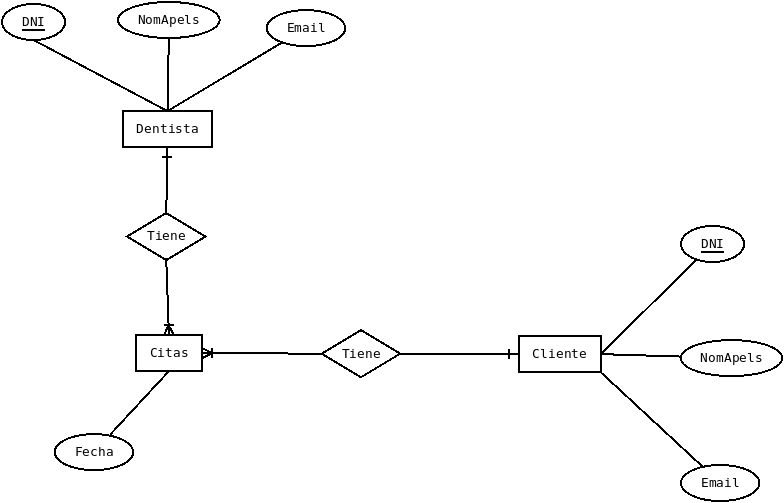
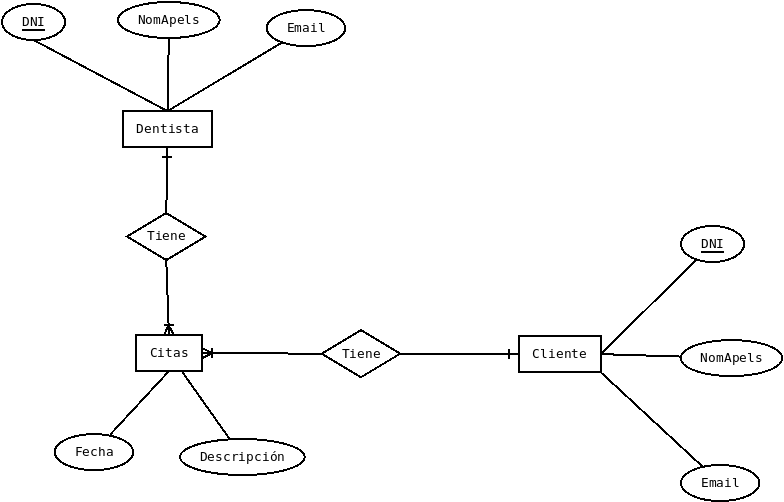
Added description in citas

diff --git a/EX02_api_medica/src/main/java/com/api/medica/dto/Citas.java b/EX02_api_medica/src/main/java/com/api/medica/dto/Citas.java
@@ -20,6 +20,9 @@ public class Citas {
 	@Column(name = "id")
 	private long id;
 	
+	@Column(name = "descripcion")
+	private String descripcion;
+	
 	@Column(name = "fecha")
 	private LocalDateTime fecha;
 	
@@ -36,13 +39,15 @@ public class Citas {
 
 	/**
 	 * @param id
+	 * @param descripcion
 	 * @param fecha
 	 * @param cliente
 	 * @param dentista
 	 */
-	public Citas(long id, LocalDateTime fecha, Clientes cliente, Dentistas dentista) {
+	public Citas(long id, String descripcion, LocalDateTime fecha, Clientes cliente, Dentistas dentista) {
 		super();
 		this.id = id;
+		this.descripcion = descripcion;
 		this.fecha = fecha;
 		this.cliente = cliente;
 		this.dentista = dentista;
@@ -103,10 +108,25 @@ public class Citas {
 	public void setDentista(Dentistas dentista) {
 		this.dentista = dentista;
 	}
+	
+	/**
+	 * @return the descripcion
+	 */
+	public String getDescripcion() {
+		return descripcion;
+	}
+
+	/**
+	 * @param descripcion the descripcion to set
+	 */
+	public void setDescripcion(String descripcion) {
+		this.descripcion = descripcion;
+	}
 
 	@Override
 	public String toString() {
-		return "Citas [id=" + id + ", fecha=" + fecha + ", cliente=" + cliente + ", dentista=" + dentista + "]";
+		return "Citas [id=" + id + ", descripcion=" + descripcion + ", fecha=" + fecha + ", cliente=" + cliente
+				+ ", dentista=" + dentista + "]";
 	}
 
 }

diff --git a/EX02_api_medica/src/main/java/com/api/medica/controller/CitasController.java b/EX02_api_medica/src/main/java/com/api/medica/controller/CitasController.java
@@ -56,18 +56,19 @@ public class CitasController {
 	@PutMapping("/citas/{id}")
 	public Citas actualizarCita(@PathVariable(name="id")long id,@RequestBody Citas cita) {
 		
-		Citas almacen_seleccionado= new Citas();
-		Citas almacen_actualizado= new Citas();
+		Citas cita_seleccionada= new Citas();
+		Citas cita_actualizada= new Citas();
 		
-		almacen_seleccionado= citasServiceImpl.citaXID(id);
+		cita_seleccionada= citasServiceImpl.citaXID(id);
 		
-		almacen_seleccionado.setFecha(cita.getFecha());
-		almacen_seleccionado.setCliente(cita.getCliente());
-		almacen_seleccionado.setDentista(cita.getDentista());
+		cita_seleccionada.setFecha(cita.getFecha());
+		cita_seleccionada.setDescripcion(cita.getDescripcion());
+		cita_seleccionada.setCliente(cita.getCliente());
+		cita_seleccionada.setDentista(cita.getDentista());
 		
-		almacen_actualizado = citasServiceImpl.actualizarCita(almacen_seleccionado);
+		cita_actualizada = citasServiceImpl.actualizarCita(cita_seleccionada);
 		
-		return almacen_actualizado;
+		return cita_actualizada;
 	}
 	
 	@DeleteMapping("/citas/{id}")

diff --git a/EX02_api_medica/src/main/java/com/api/medica/service/IClientesService.java b/EX02_api_medica/src/main/java/com/api/medica/service/IClientesService.java
@@ -2,8 +2,6 @@ package com.api.medica.service;
 
 import java.util.List;
 
-import org.springframework.stereotype.Service;
-
 import com.api.medica.dto.Clientes;
 
 public interface IClientesService {
